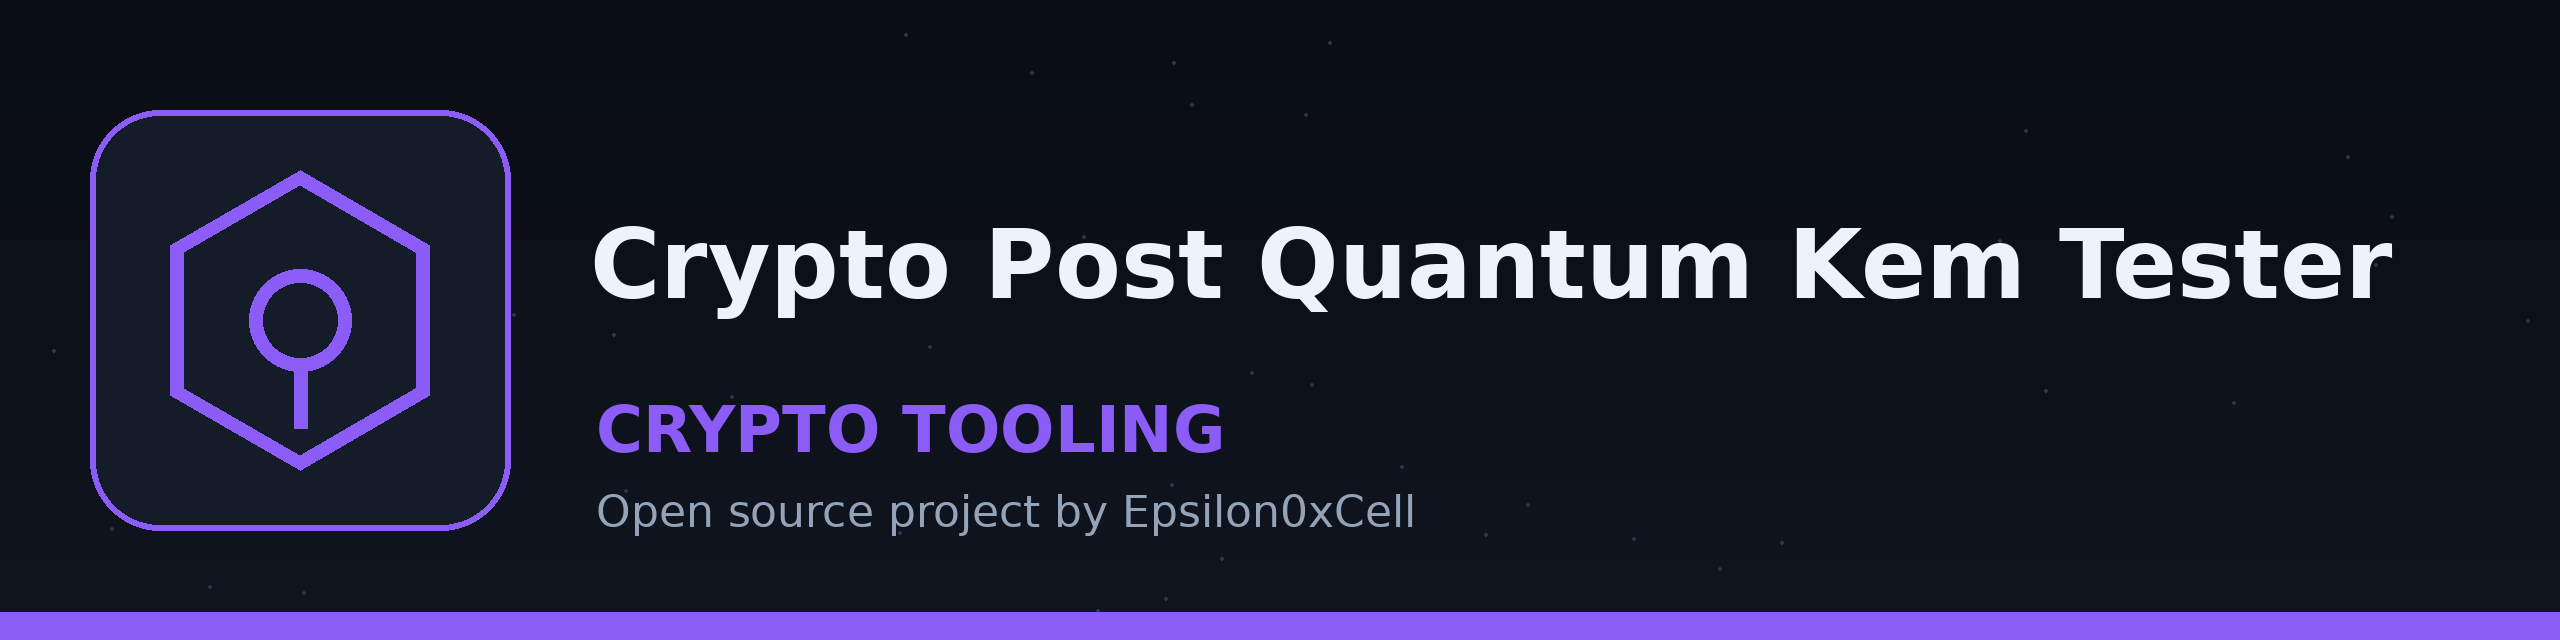
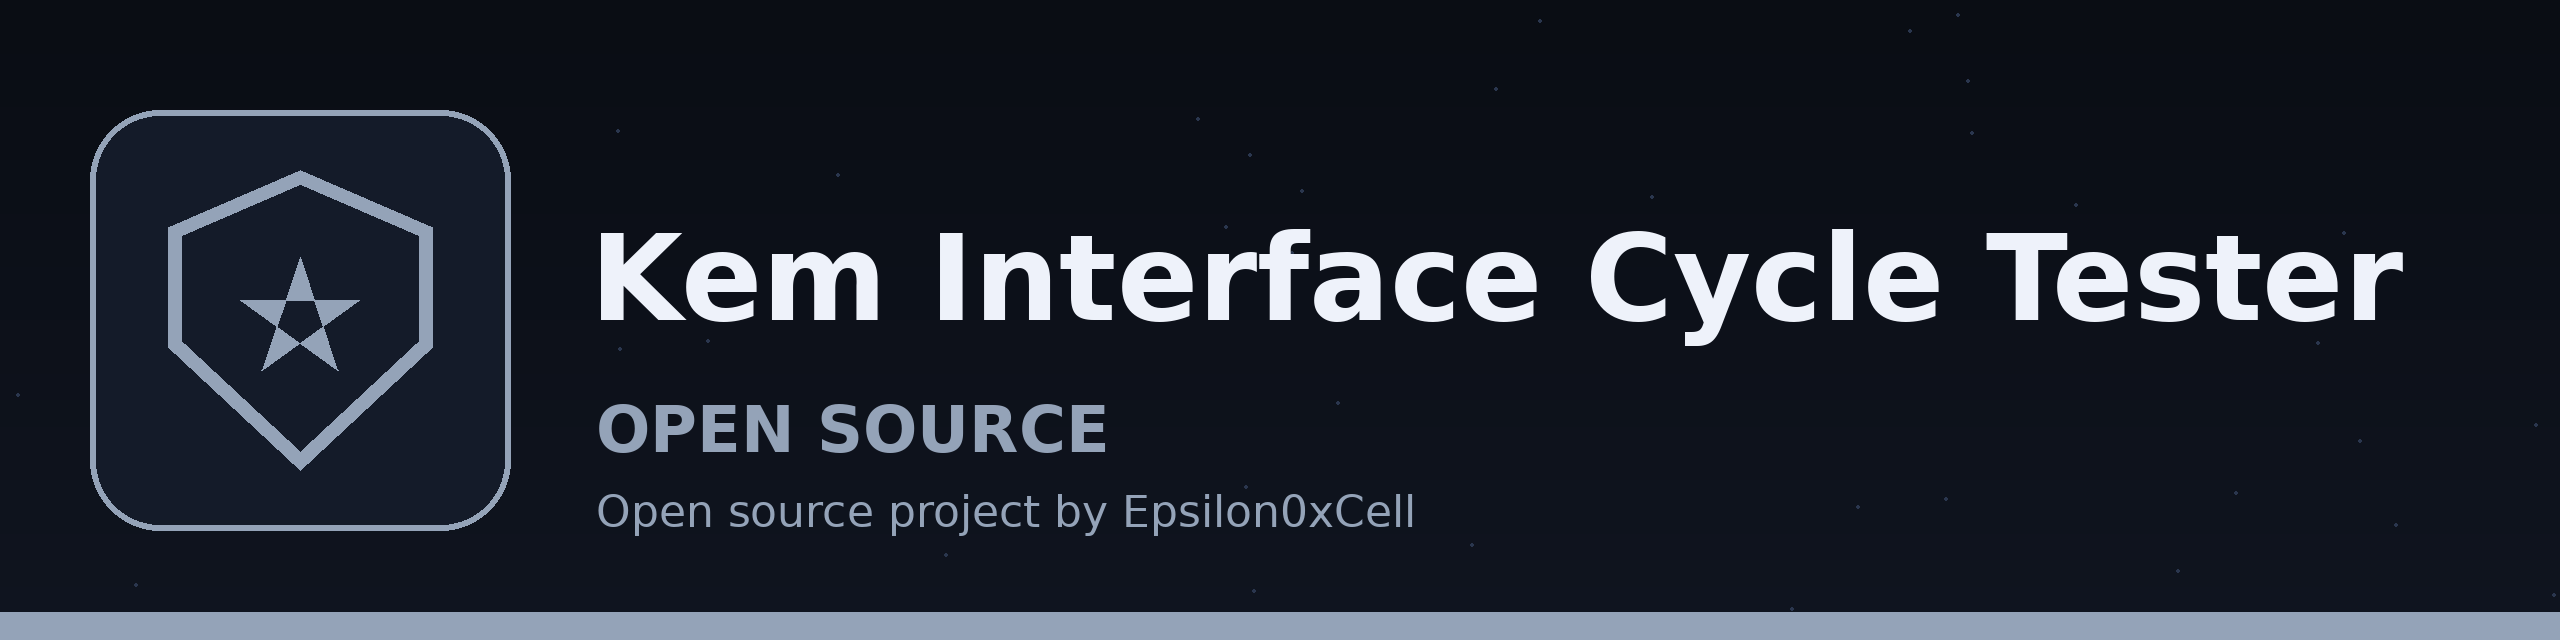
Update branding and README title for rename to kem-interface-cycle-tester

diff --git a/README.md b/README.md
@@ -1,6 +1,6 @@
 ![Banner](banner.png)
 
-# crypto-post-quantum-kem-tester
+# kem-interface-cycle-tester
 
 A command line harness that exercises a Key Encapsulation Mechanism (KEM) interface: repeated encapsulate and decapsulate cycles with timing, an optional AES-256-CBC encryption round trip using a key derived from the KEM shared secret via HKDF-SHA256, and X25519 key pair generation to PEM files.
 
@@ -14,8 +14,8 @@ Important limitation: the only KEM implemented is `DummyKEM`, a placeholder that
 ## Install
 
 ```bash
-git clone https://github.com/ShadowGuardAI/crypto-post-quantum-kem-tester.git
-cd crypto-post-quantum-kem-tester
+git clone https://github.com/ShadowGuardAI/kem-interface-cycle-tester.git
+cd kem-interface-cycle-tester
 pip install -r requirements.txt
 ```
 
